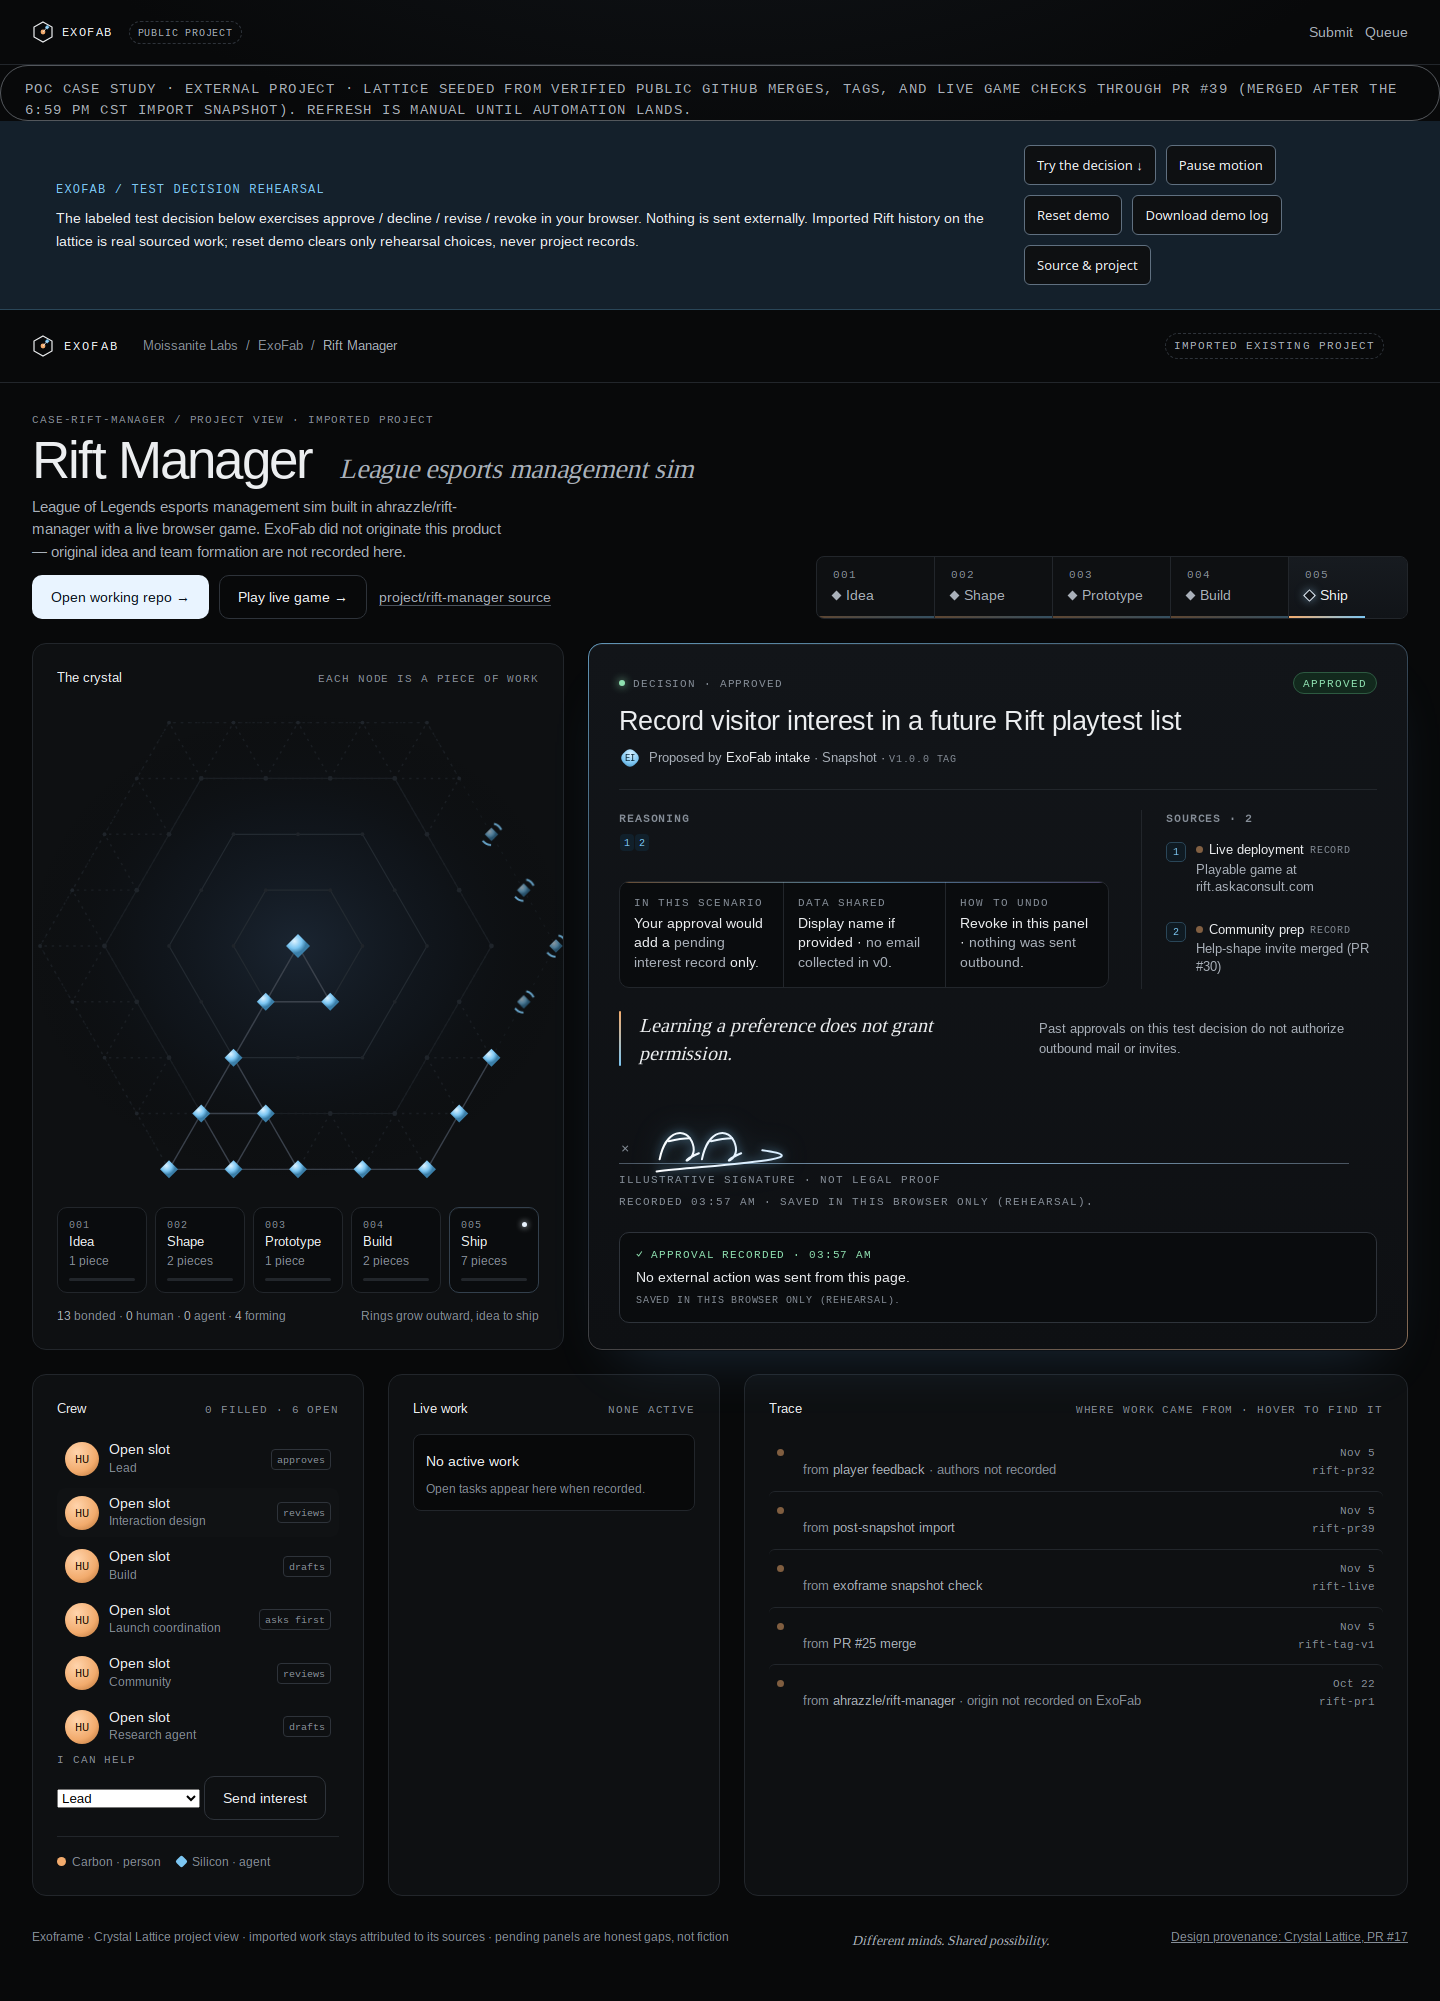
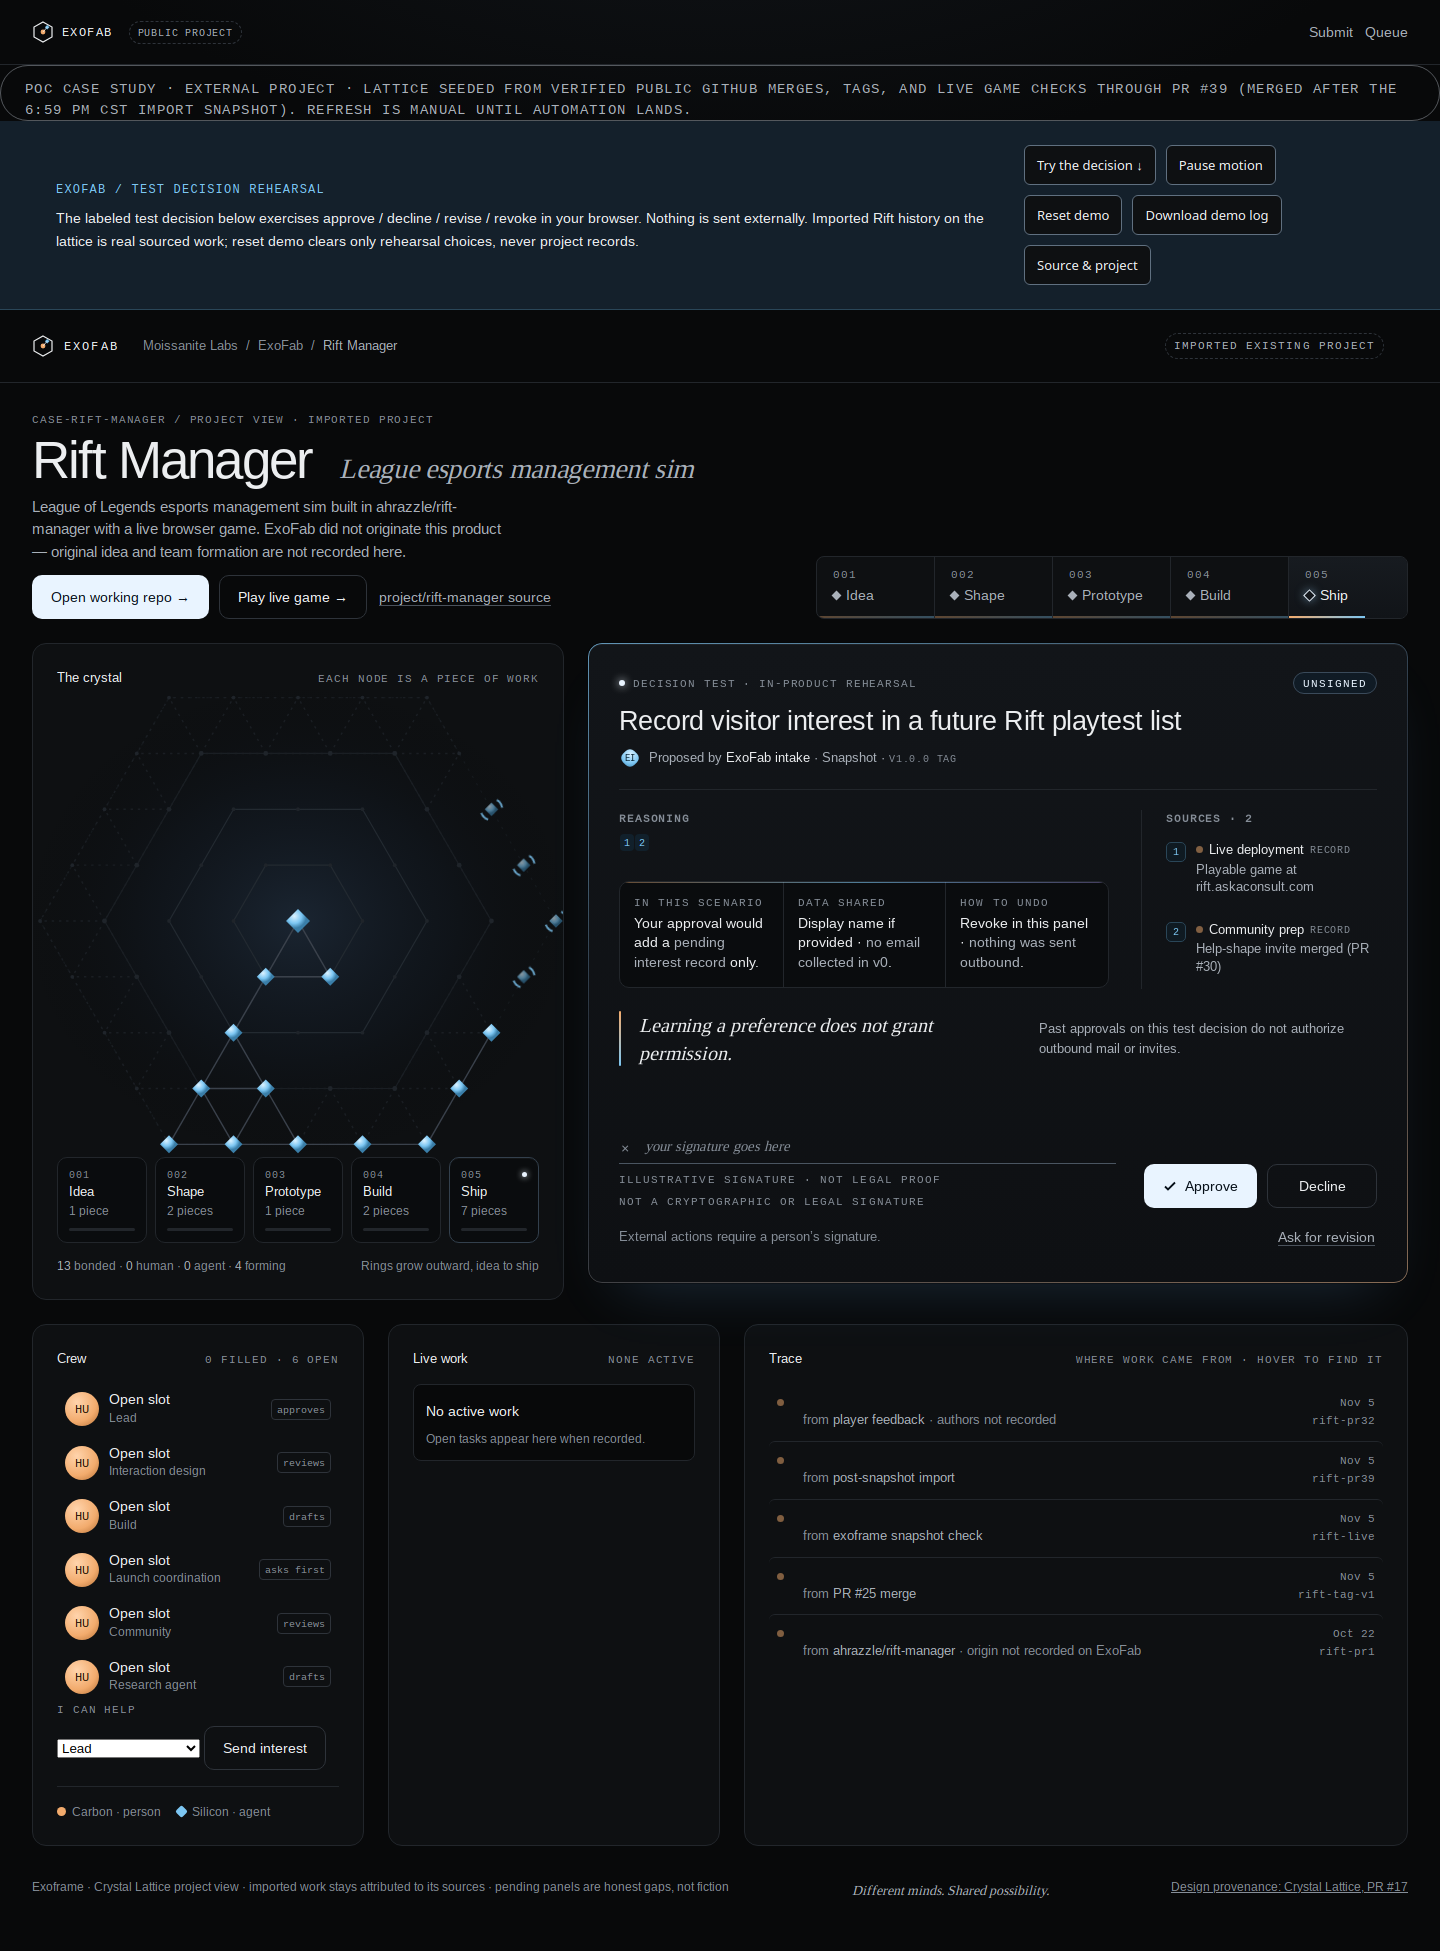
Make Reset demo clear rehearsal state and restore Revoke after reload
Clear exoframe-participation per slug locally on Reset, DELETE the scoped
Worker KV record when EXO_API_BASE is set, and match approved restore UI to
live approve including the Revoke control. Add Worker isolation tests,
source/browser rehearsal tests, and before/after Reset gate screenshots.

diff --git a/assets/crystal-lattice.js b/assets/crystal-lattice.js
@@ -845,6 +845,27 @@
     localStorage.setItem(localParticipationKey(slug), JSON.stringify(data));
   }
 
+  function clearLocalParticipation(slug) {
+    try {
+      localStorage.removeItem(localParticipationKey(slug));
+    } catch (_) {}
+  }
+
+  async function clearRehearsalParticipation(ctx) {
+    const { slug, apiBase } = ctx.cfg;
+    if (!slug) return;
+    if (apiBase) {
+      const participantId = ensureParticipantId();
+      if (!participantId) throw new Error("no participant id");
+      const res = await fetch(
+        `${apiBase}/api/projects/${encodeURIComponent(slug)}/participation?participant=${encodeURIComponent(participantId)}`,
+        { method: "DELETE" },
+      );
+      if (!res.ok) throw new Error("remote clear failed");
+    }
+    clearLocalParticipation(slug);
+  }
+
   function mergeParticipationClient(prev, patch) {
     const merged = { ...prev };
     if (patch.type === "role-interest") {
@@ -972,7 +993,7 @@
       const sd = $("#sigdate", ctx.root);
       if (sd) sd.textContent = `Recorded ${time()} · ${saved}`;
       if (out) {
-        out.innerHTML = `<div class="stamp">✓ Approval recorded · ${time()}</div><b>${esc(dec.approveOutcome || "No external action was sent from this page.")}</b><br><span class="mono" style="font-size:10px">${esc(saved)}</span>`;
+        out.innerHTML = `<div class="stamp">✓ Approval recorded · ${time()}</div><b>${esc(dec.approveOutcome || "No external action was sent from this page.")}</b>${dec.recordId ? `<br><span class="mono" style="font-size:10px">${esc(dec.recordId)}</span>` : ""}<br><span class="mono" style="font-size:10px">${esc(saved)}</span><br><button type="button" class="mini" id="revoke">Revoke approval</button>`;
         out.classList.add("on");
       }
     } else if (state === "declined") {
@@ -1018,7 +1039,17 @@
       motion.textContent = paused ? "Resume motion" : "Pause motion";
     });
     const reset = $("#demoReset", ctx.root);
-    if (reset) reset.addEventListener("click", () => location.reload());
+    if (reset) reset.addEventListener("click", async () => {
+      reset.disabled = true;
+      try {
+        await clearRehearsalParticipation(ctx);
+        location.reload();
+      } catch (_) {
+        reset.disabled = false;
+        const ann = $("#announce", ctx.root);
+        if (ann) ann.textContent = "Reset could not clear saved rehearsal. Try again.";
+      }
+    });
     const exp = $("#demoExport", ctx.root);
     if (exp) exp.addEventListener("click", () => {
       const data = {

diff --git a/worker/test/intake.test.js b/worker/test/intake.test.js
@@ -350,4 +350,65 @@ describe("participation", () => {
     expect(isValidParticipantId(PARTICIPANT_A)).toBe(true);
     expect(isValidParticipantId("not-a-uuid")).toBe(false);
   });
+
+  it("DELETE clears only the requesting participant record", async () => {
+    await SELF.fetch(
+      new Request(`https://worker.test/api/projects/${slug}/participation`, {
+        method: "POST",
+        headers: postHeaders,
+        body: JSON.stringify({
+          participantId: PARTICIPANT_A,
+          type: "decision-action",
+          action: "approved",
+          decisionId: "ship-gate-8",
+        }),
+      }),
+    );
+    await SELF.fetch(
+      new Request(`https://worker.test/api/projects/${slug}/participation`, {
+        method: "POST",
+        headers: postHeaders,
+        body: JSON.stringify({
+          participantId: PARTICIPANT_B,
+          type: "role-interest",
+          slot: "coach",
+          note: "",
+        }),
+      }),
+    );
+
+    const del = await SELF.fetch(
+      new Request(
+        `https://worker.test/api/projects/${slug}/participation?participant=${PARTICIPANT_A}`,
+        { method: "DELETE", headers: postHeaders },
+      ),
+    );
+    expect(del.status).toBe(200);
+
+    const getA = await SELF.fetch(
+      new Request(
+        `https://worker.test/api/projects/${slug}/participation?participant=${PARTICIPANT_A}`,
+        { method: "GET", headers: { Origin: ORIGIN } },
+      ),
+    );
+    expect(await getA.json()).toEqual({});
+
+    const getB = await SELF.fetch(
+      new Request(
+        `https://worker.test/api/projects/${slug}/participation?participant=${PARTICIPANT_B}`,
+        { method: "GET", headers: { Origin: ORIGIN } },
+      ),
+    );
+    expect((await getB.json()).role).toBe("coach");
+  });
+
+  it("DELETE rejects missing participant id", async () => {
+    const res = await SELF.fetch(
+      new Request(`https://worker.test/api/projects/${slug}/participation`, {
+        method: "DELETE",
+        headers: postHeaders,
+      }),
+    );
+    expect(res.status).toBe(400);
+  });
 });

diff --git a/worker/src/index.js b/worker/src/index.js
@@ -10,7 +10,7 @@ const MAX_IDEA_BODY = 8 * 1024;
 export function corsHeaders(request, extra = {}) {
   const origin = request.headers.get("Origin");
   const headers = {
-    "Access-Control-Allow-Methods": "GET, POST, OPTIONS",
+    "Access-Control-Allow-Methods": "GET, POST, DELETE, OPTIONS",
     "Access-Control-Allow-Headers": "Content-Type",
     Vary: "Origin",
     ...extra,
@@ -379,6 +379,26 @@ export async function handleParticipation(request, env, slug) {
     return jsonResponse(request, 200, stored ?? {});
   }
 
+  if (request.method === "DELETE") {
+    const url = new URL(request.url);
+    const participantId =
+      url.searchParams.get("participant") || url.searchParams.get("participantId");
+    if (!isValidParticipantId(participantId)) {
+      return jsonResponse(request, 400, { error: "Valid participantId is required." });
+    }
+    const clientIp = request.headers.get("CF-Connecting-IP") || "unknown";
+    const rlDel = await applyRateLimit(env, `participation:${clientIp}`);
+    if (!rlDel.success) {
+      return jsonResponse(request, 429, { error: "Too many requests. Try again later." });
+    }
+    await env.IDEAS_KV.delete(participationKey(slug, participantId));
+    return jsonResponse(request, 200, { cleared: true });
+  }
+
+  if (request.method !== "POST") {
+    return jsonResponse(request, 405, { error: "Method not allowed." });
+  }
+
   const clientIp = request.headers.get("CF-Connecting-IP") || "unknown";
   const rl = await applyRateLimit(env, `participation:${clientIp}`);
   if (!rl.success) {
@@ -441,7 +461,7 @@ export default {
     const partMatch = url.pathname.match(/^\/api\/projects\/([^/]+)\/participation$/);
     if (partMatch) {
       const slug = decodeURIComponent(partMatch[1]);
-      if (request.method === "GET" || request.method === "POST") {
+      if (request.method === "GET" || request.method === "POST" || request.method === "DELETE") {
         return handleParticipation(request, env, slug);
       }
     }

diff --git a/scripts/test_aggregate_regression.py b/scripts/test_aggregate_regression.py
@@ -134,6 +134,20 @@ class AggregateRegression(unittest.TestCase):
         self.assertIn("The crystal", html)
         self.assertIn("Imported existing project", html)
 
+    def test_crystal_reset_clears_rehearsal_storage(self) -> None:
+        src = (ROOT / "assets" / "crystal-lattice.js").read_text(encoding="utf-8")
+        self.assertIn("clearLocalParticipation", src)
+        self.assertIn("clearRehearsalParticipation", src)
+        self.assertIn('method: "DELETE"', src)
+        self.assertNotIn('reset.addEventListener("click", () => location.reload())', src)
+
+    def test_crystal_restore_includes_revoke_control(self) -> None:
+        src = (ROOT / "assets" / "crystal-lattice.js").read_text(encoding="utf-8")
+        idx = src.index("function reflectPersistedDecisionUI")
+        block = src[idx : idx + 2800]
+        self.assertIn('id="revoke"', block)
+        self.assertIn("Revoke approval", block)
+
 
 if __name__ == "__main__":
     unittest.main(verbosity=2)
